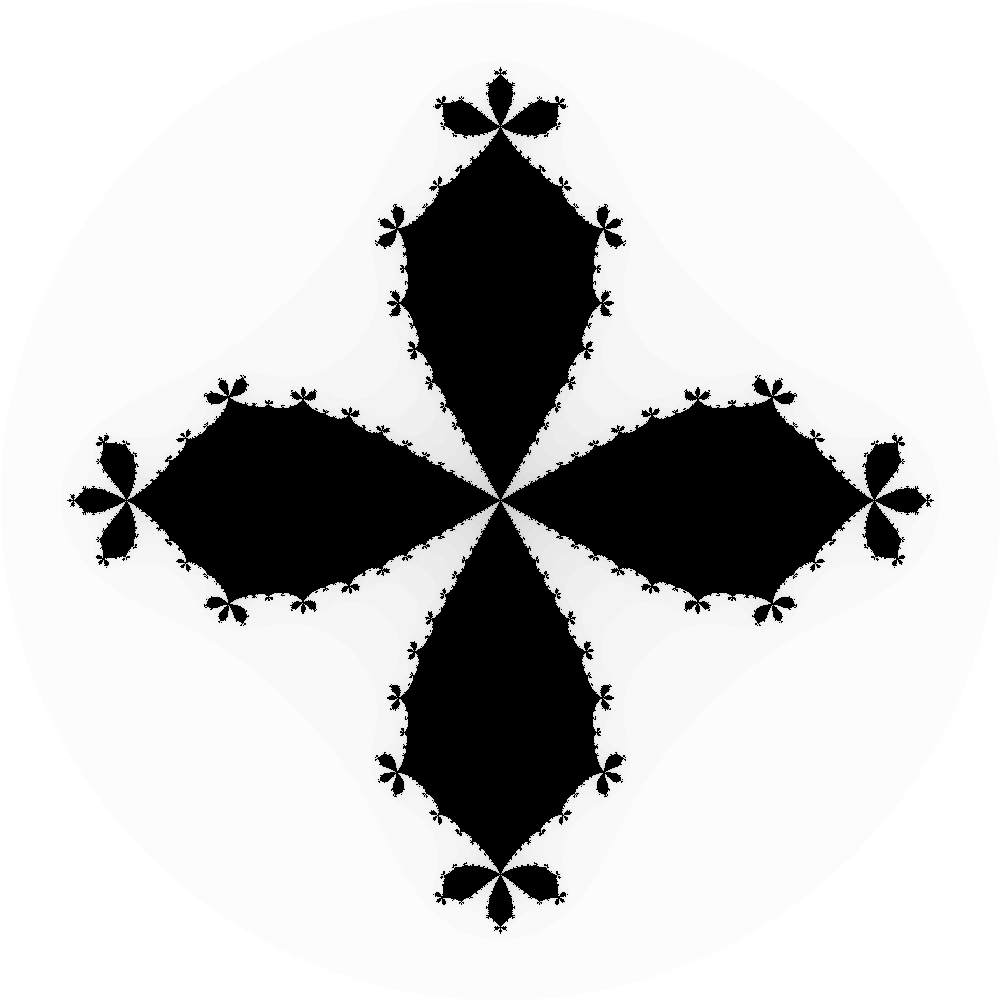
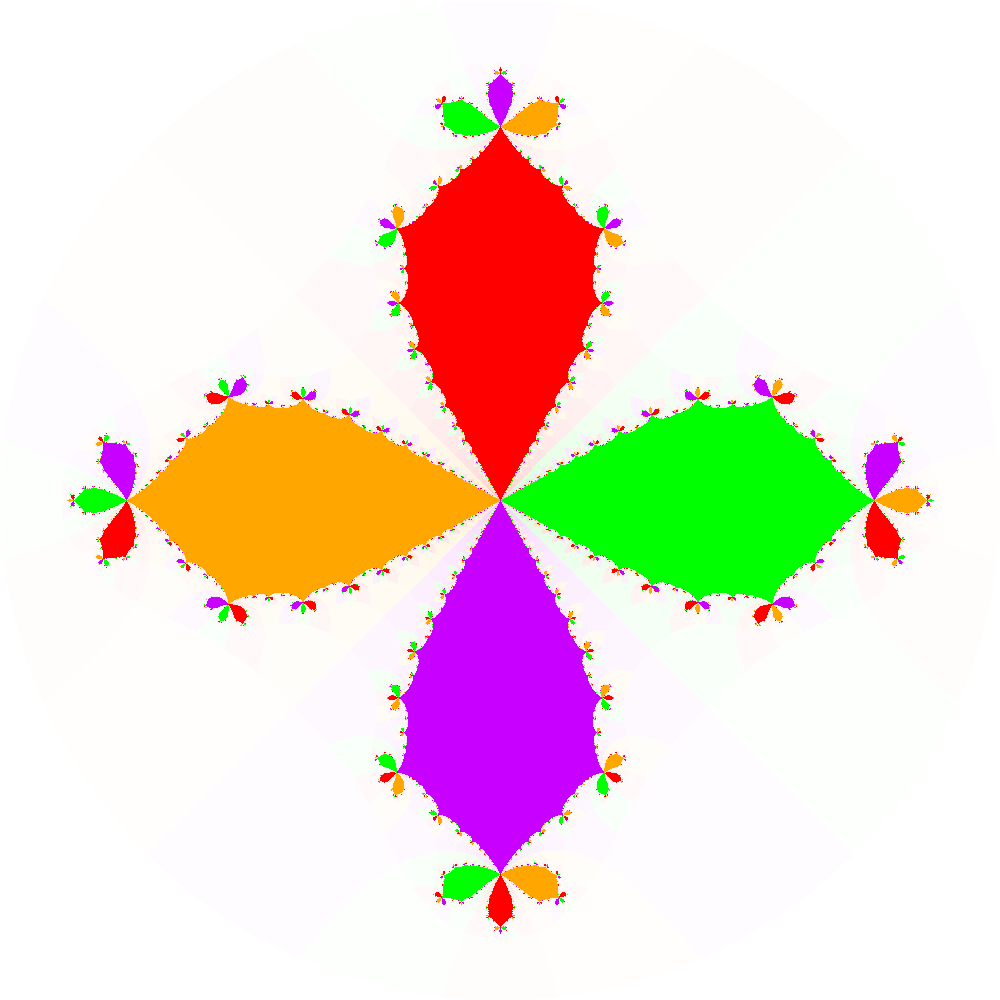
added coloring to julia set based on which fixed point each value is attracted to

Changed region(s): [[0.062, 0.062, 0.93, 0.93]]

diff --git a/src/julia-set-graphing/julia-set-graphing.py b/src/julia-set-graphing/julia-set-graphing.py
@@ -14,17 +14,31 @@ IM_END = 2
 MAX_ITERATIONS = 80
 MAX_MAGNITUDE = 2
 
+# fixed points
+FIXED_POINTS = [1j, -1j, 1, -1]
+
+# fixed point color constants
+FP_COLORS = [(200, 0, 255),  # purple, i
+             (255, 0, 0),  # red, -i
+             (0, 255, 0),  # green, 1
+             (255, 166, 0)]  # orange, -1
+
 # function whose Julia set to compute
 FUNCTION = (lambda z: (5 * z - z ** 5) / 4)
 
 
-# returns n such that f^n(value) <
+# returns a tuple (n, max_distance_index) such that f^n(value) < MAX_MAGNITUDE
+# and min_distance_index is the closest fixed point after MAX_ITERATIONS iterations
 def julia_set(value):
     n = 0
     while n < MAX_ITERATIONS and abs(value) < MAX_MAGNITUDE:
         value = FUNCTION(value)
         n += 1
-    return n
+
+    distances = [abs(value - i) for i in FIXED_POINTS]
+    min_distance_index = distances.index(min(distances))
+
+    return n, min_distance_index
 
 
 # create new PIL image
@@ -41,10 +55,12 @@ for x in range(0, WIDTH):
         m = julia_set(c)
 
         # normalizes the color into an RGB 255-scale
-        color = 255 - int(m * 255 / MAX_ITERATIONS)
+        colors = [255 - int(m[0] * (255 - value) / MAX_ITERATIONS)
+                  for value in FP_COLORS[m[1]]]
 
-        # draws a grayscale pixel with n such that f^n(c) > MAX_MAGNITUDE
-        draw.point([x, y], (color, color, color))
+        # draws a pixel of color associated to a fixed point with darkness associated to
+        # "being in the Julia set"
+        draw.point([x, y], tuple(colors))
 
 # saves image into julia_set_output.png
 img.save("julia_set_output.png", "PNG")
